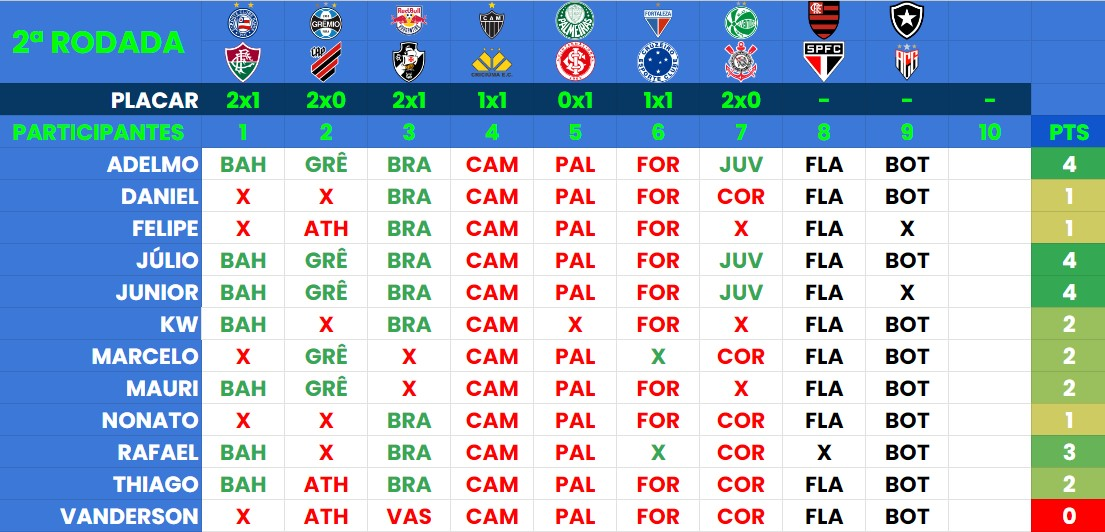
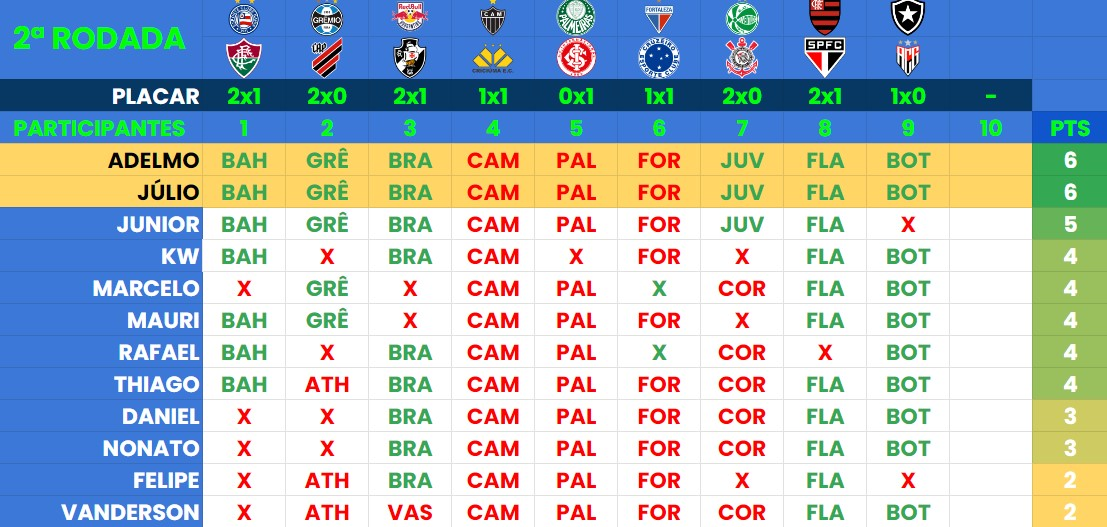
u

diff --git a/index.html b/index.html
@@ -51,10 +51,10 @@
           <img src="./assets/Round2.jpg" alt="Logo do Campeonato Brasileiro 2022" />
         </div>
         <div class="text">
-          <h2 class="title"><a href="./predictor.html">RESUMÃO RODADA 2</a>
+          <h2 class="title"><a href="./predictor.html">Adelmo e Júlio vencem a Rodada 2</a>
           </h2>
           <p>
-            MERCADO FECHADO!
+            Com seis pontos cada, os dois também se isolam na liderança do Bolão
           </p>
           <a class="button" href="./predictor.html">Resumo dos palpites</a>
         </div>
@@ -177,7 +177,7 @@
           <div class="content">
             <h2 class="rank"><small>#</small>1</h2>
             <h4>Adelmo</h4>
-            <p>10 Pontos</p>
+            <p>12 Pontos</p>
           </div>
         </div>
         <div class="list">
@@ -187,7 +187,7 @@
           <div class="content">
             <h2 class="rank"><small>#</small>2</h2>
             <h4>Júlio</h4>
-            <p>10 Pontos</p>
+            <p>12 Pontos</p>
           </div>
         </div>
         <div class="list">
@@ -197,7 +197,7 @@
           <div class="content">
             <h2 class="rank"><small>#</small>3</h2>
             <h4>Júnior</h4>
-            <p>10 Pontos</p>
+            <p>11 Pontos</p>
           </div>
         </div>
         <div class="list">
@@ -207,7 +207,7 @@
           <div class="content">
             <h2 class="rank"><small>#</small>4</h2>
             <h4>KW</h4>
-            <p>9 Pontos</p>
+            <p>11 Pontos</p>
           </div>
         </div>
         <div class="list">
@@ -217,7 +217,7 @@
           <div class="content">
             <h2 class="rank"><small>#</small>5</h2>
             <h4>Rafael</h4>
-            <p>9 Pontos</p>
+            <p>10 Pontos</p>
           </div>
         </div>
         <div class="list">
@@ -227,17 +227,7 @@
           <div class="content">
             <h2 class="rank"><small>#</small>6</h2>
             <h4>Daniel</h4>
-            <p>7 Pontos</p>
-          </div>
-        </div>
-        <div class="list">
-          <div class="imgBx">
-            <img src="./assets/fotos/santos.png">
-          </div>
-          <div class="content">
-            <h2 class="rank"><small>#</small>7</h2>
-            <h4>Felipe</h4>
-            <p>7 Pontos</p>
+            <p>9 Pontos</p>
           </div>
         </div>
         <div class="list">
@@ -245,9 +235,9 @@
             <img src="./assets/fotos/ceará.png">
           </div>
           <div class="content">
-            <h2 class="rank"><small>#</small>8</h2>
+            <h2 class="rank"><small>#</small>7</h2>
             <h4>Nonato</h4>
-            <p>7 Pontos</p>
+            <p>9 Pontos</p>
           </div>
         </div>
         <div class="list">
@@ -255,9 +245,19 @@
             <img src="./assets/fotos/palmeiras.png">
           </div>
           <div class="content">
-            <h2 class="rank"><small>#</small>9</h2>
+            <h2 class="rank"><small>#</small>8</h2>
             <h4>Marcelo</h4>
-            <p>7 Pontos</p>
+            <p>9 Pontos</p>
+          </div>
+        </div>
+        <div class="list">
+          <div class="imgBx">
+            <img src="./assets/fotos/santos.png">
+          </div>
+          <div class="content">
+            <h2 class="rank"><small>#</small>9</h2>
+            <h4>Felipe</h4>
+            <p>8 Pontos</p>
           </div>
         </div>
         <div class="list">
@@ -267,7 +267,7 @@
           <div class="content">
             <h2 class="rank"><small>#</small>10</h2>
             <h4>Mauri</h4>
-            <p>6 Pontos</p>
+            <p>8 Pontos</p>
           </div>
         </div>
         <div class="list">
@@ -277,7 +277,7 @@
           <div class="content">
             <h2 class="rank"><small>#</small>11</h2>
             <h4>Thiago</h4>
-            <p>5 Pontos</p>
+            <p>7 Pontos</p>
           </div>
         </div>
         <div class="list">
@@ -287,7 +287,7 @@
           <div class="content">
             <h2 class="rank"><small>#</small>12</h2>
             <h4>Vanderson</h4>
-            <p>3 Pontos</p>
+            <p>5 Pontos</p>
           </div>
         </div>
       </div>
